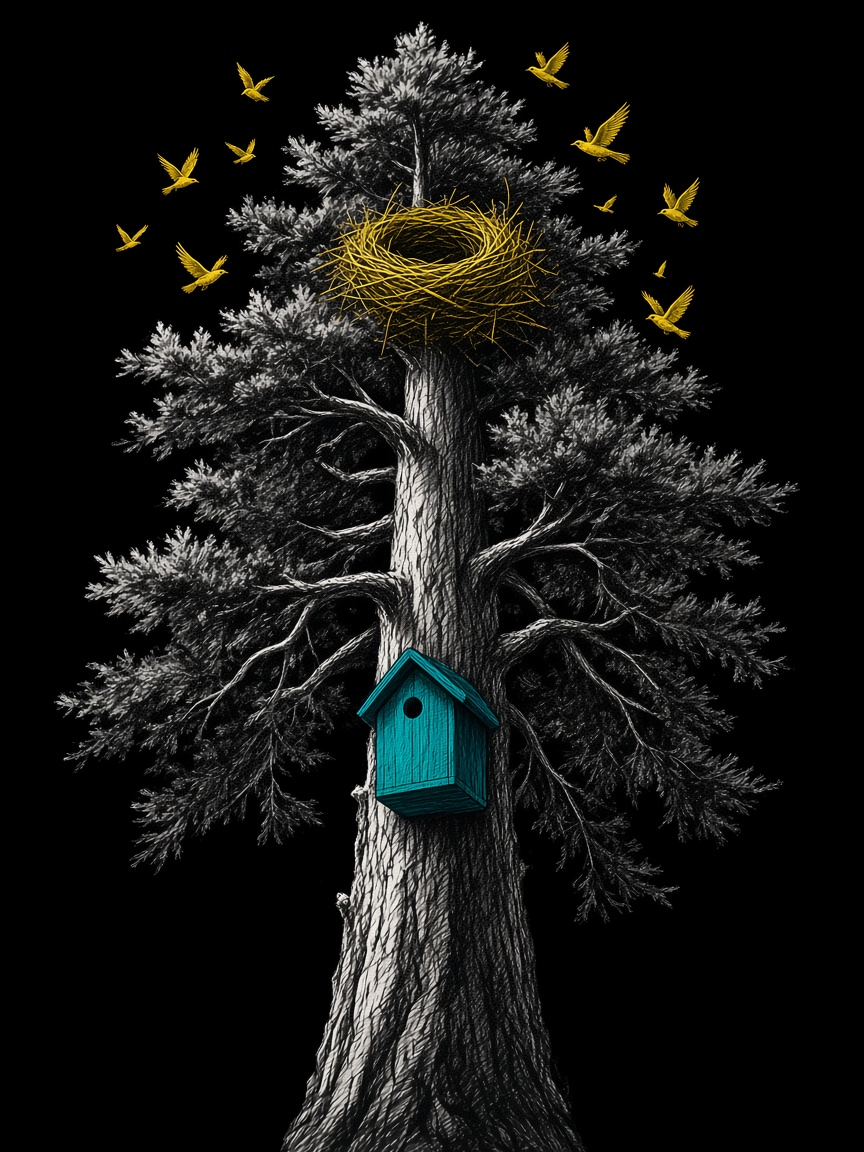
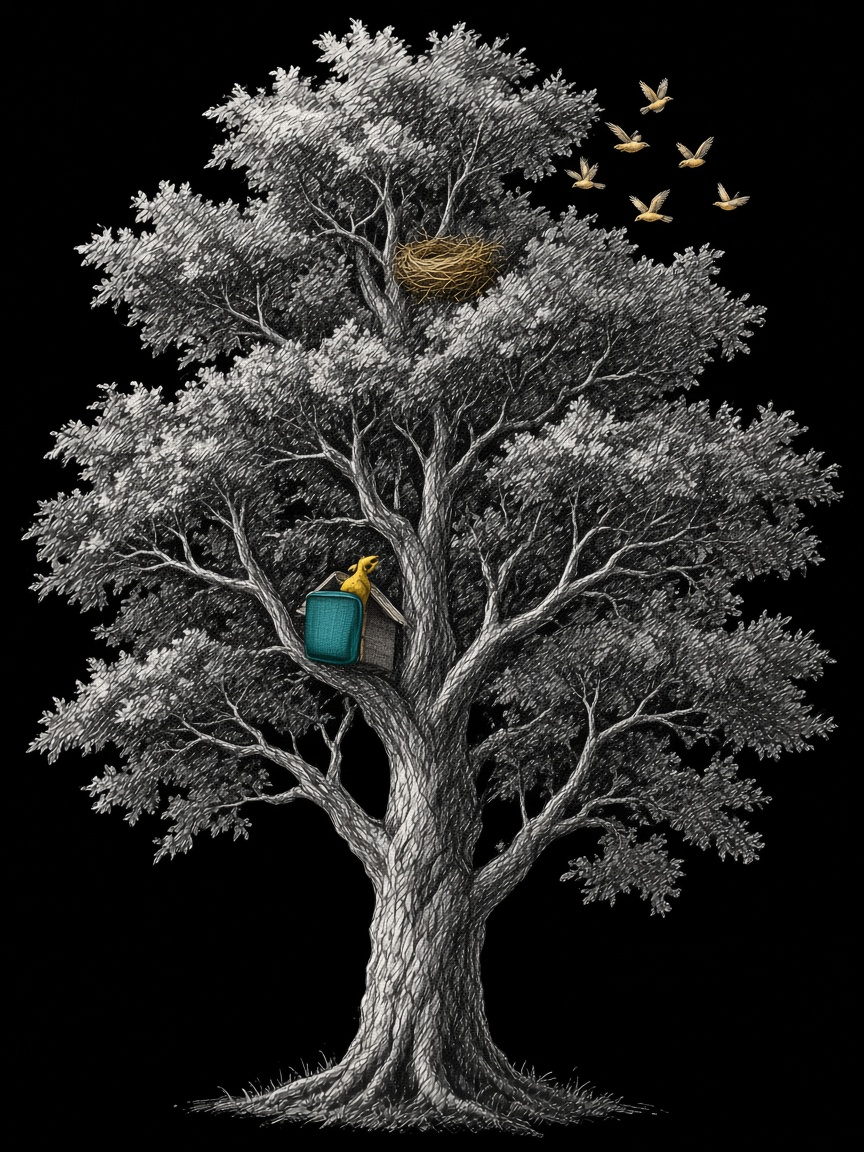
Add journal Nest mocks, naturalize the tree, and clear the hero.

diff --git a/index.html b/index.html
@@ -61,7 +61,7 @@
   <link rel="preconnect" href="https://fonts.gstatic.com" crossorigin />
   <link href="https://fonts.googleapis.com/css2?family=Playfair+Display:ital,wght@0,400;0,700;1,400;1,700&family=DM+Sans:wght@300;400;500&family=DM+Mono:wght@300;400&family=Space+Mono:wght@400;700&display=swap" rel="stylesheet" />
   <link rel="stylesheet" href="/css/lilbird-tokens.css?v=20260917k" />
-  <link rel="stylesheet" href="/css/lilbird-home.css?v=20261103b" />
+  <link rel="stylesheet" href="/css/lilbird-home.css?v=20261103c" />
   <link rel="stylesheet" href="/css/lilbird-chat.css?v=20260917k" />
   <!-- Google Tag Manager -->
   <script src="/lilbird-gtm-id.js"></script>
@@ -181,7 +181,6 @@
       </a>
       <p class="hero-cta-note">Free · about 15 minutes · it lands in your Nest</p>
       <a href="/nest/" class="hero-text-link">Your personal dashboard →</a>
-      <a href="/am-i-ready-for-coaching.html" class="hero-text-link">Not sure? Am I ready for coaching? (3 min) →</a>
     </div>
     <div class="hero-scroll-hint reveal reveal-delay-4">
       <span class="scroll-arrow"></span>
@@ -335,13 +334,13 @@
       <figure class="nest-tree-frame">
         <div class="nest-tree-stage">
           <img src="/images/home/nest-tree.jpg" alt="Sketch of a tree with a high nest, birdhouse, and flock of birds" width="900" height="1200" loading="lazy" decoding="async" />
-          <button type="button" class="tree-hotspot tree-hotspot-nest" style="left:28%;top:18%;" data-tier="nest" aria-describedby="tree-tip-nest">
+          <button type="button" class="tree-hotspot tree-hotspot-nest" style="left:48%;top:20%;" data-tier="nest" aria-describedby="tree-tip-nest">
             <span class="tree-tip" id="tree-tip-nest"><strong>Nest</strong> Free home base. See yourself clearly and keep what you find.</span>
           </button>
-          <button type="button" class="tree-hotspot tree-hotspot-plus" style="left:62%;top:42%;" data-tier="plus" aria-describedby="tree-tip-plus">
+          <button type="button" class="tree-hotspot tree-hotspot-plus" style="left:68%;top:44%;" data-tier="plus" aria-describedby="tree-tip-plus">
             <span class="tree-tip" id="tree-tip-plus"><strong>Nest Plus</strong> Deeper tools on your own time. $7.99 a month.</span>
           </button>
-          <button type="button" class="tree-hotspot tree-hotspot-premium" style="left:58%;top:10%;" data-tier="premium" aria-describedby="tree-tip-premium">
+          <button type="button" class="tree-hotspot tree-hotspot-premium" style="left:56%;top:9%;" data-tier="premium" aria-describedby="tree-tip-premium">
             <span class="tree-tip" id="tree-tip-premium"><strong>Nest Premium</strong> Live group coaching with others on the path, when open.</span>
           </button>
         </div>
@@ -566,7 +565,7 @@
 <script src="/first-flight-booking.js"></script>
 <script src="/lb-chat-safe.js"></script>
 <script src="/js/lilbird-theme.js?v=20260917k"></script>
-<script src="/js/lilbird-home.js?v=20261103b"></script>
+<script src="/js/lilbird-home.js?v=20261103c"></script>
 <script src="/js/lilbird-chat.js"></script>
 </body>
 </html>
